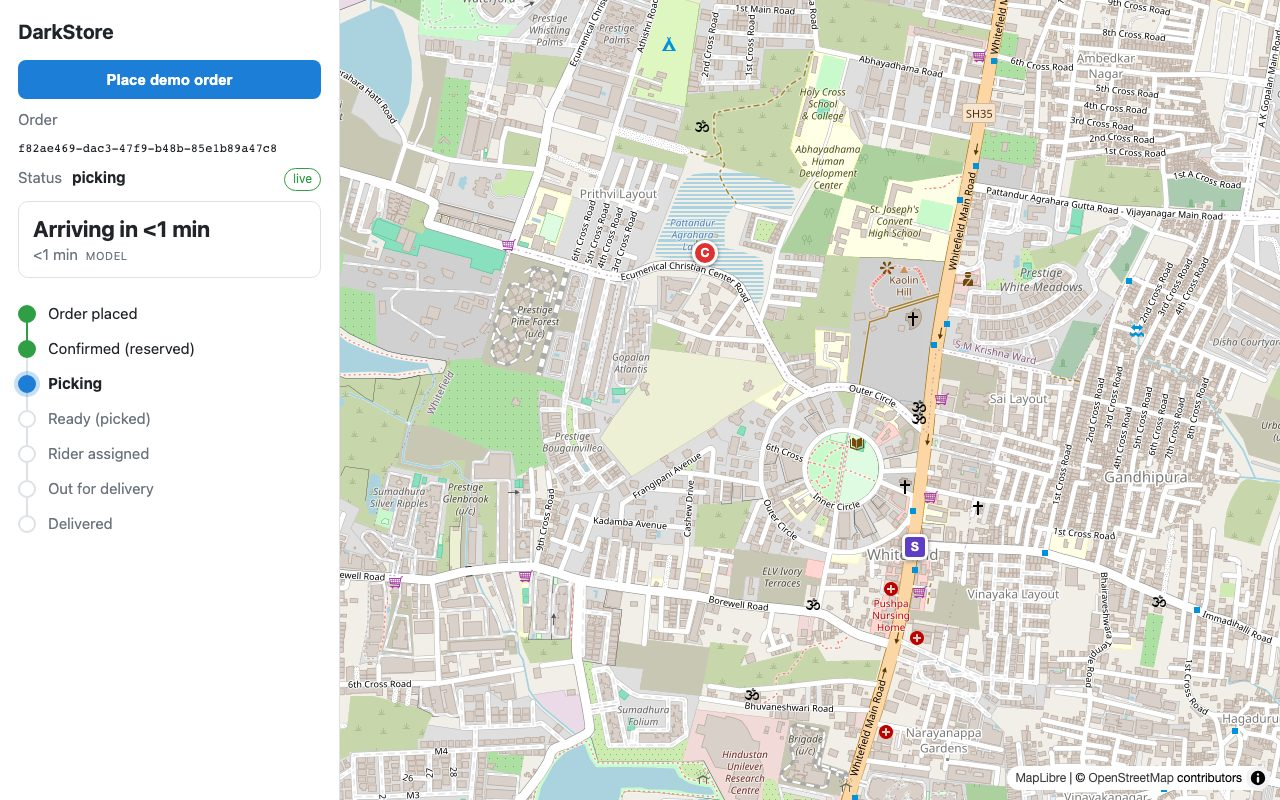
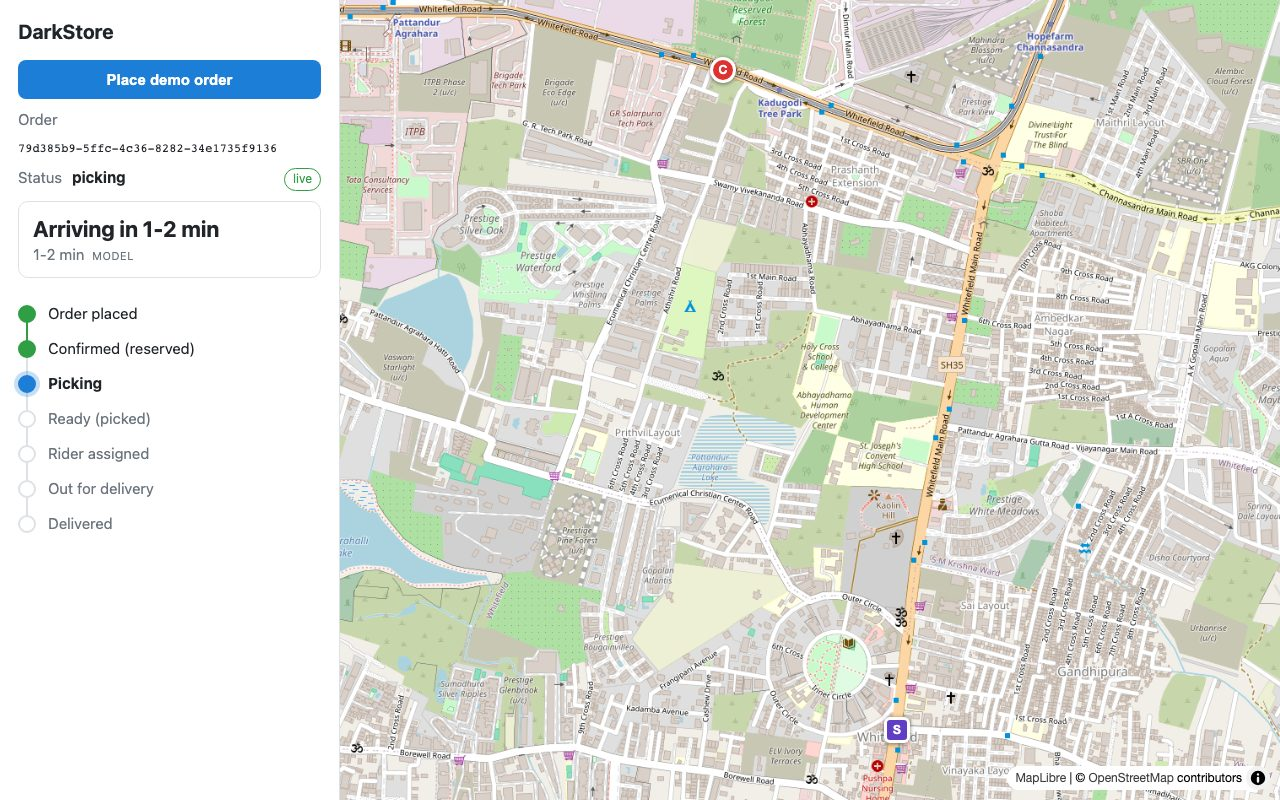
docs: refresh screenshots from a fresh run, update test counts, note the evening-rush headroom

diff --git a/README.md b/README.md
@@ -20,7 +20,7 @@ make e2e     # Playwright          make chaos SCENARIO=kill-picking   make load
 The demo simulator runs on a 30x clock with 1 order per simulated minute at base demand (`SIM_ORDERS_PER_MINUTE`, so 0.5/s before the rush multipliers), starting at 16:00 (`SIM_START_HOUR`). The simulated clock starts when the stack first boots (its epoch is kept in Redis), so run `make demo` right after `make up`; starting it much later begins later in the simulated day. Two runs measured on this machine:
 
 - **Lunch peak** (sim hour ~13, about 1.1 orders/s target): 551 orders delivered in 15 minutes, order-to-delivered p50 103 s and p95 200 s, rider backlog 0-1. City-wide destinations make trips longer than in the load test, which is why these are slower than the load-ramp table.
-- **Evening rush** (19:00-22:00 simulated, 3.0x, about 1.5 orders/s target; it starts 6 minutes after the simulator and lasts about 6): this is over what the 120-rider fleet can deliver. About 0.7 orders/s were delivered through the rush (262 in 6.1 minutes), so the orders waiting for a rider grew to about 250 and drained to 0 about 6 minutes after demand fell. The order pipeline itself stayed healthy: consumer lag was at most 4 in samples taken every 30 s, and the simulator logged 0 failed placements. That queue is what the `FleetStarved` alert and the ops late-orders table exist to show; lower `SIM_ORDERS_PER_MINUTE` to stay under capacity.
+- **Evening rush** (19:00-22:00 simulated, 3.0x, about 1.5 orders/s target; it starts 6 minutes after the simulator and lasts about 6): this is over what the 120-rider fleet can deliver. About 0.7 orders/s were delivered through the rush (262 in 6.1 minutes), so the orders waiting for a rider grew to about 250 and drained to 0 about 6 minutes after demand fell. The order pipeline itself stayed healthy: consumer lag was at most 4 in samples taken every 30 s, and the simulator logged 0 failed placements. That was a fresh start with nothing else running; in a later run with the ops dashboard open in a browser and the Playwright tests running through the same rush, consumer lag reached about 860 and the simulator logged 156 failed placements (518 placed) before things recovered once demand fell, so on a 4 GB Docker VM the evening rush leaves little headroom. The rider queue is what the `FleetStarved` alert and the ops late-orders table exist to show; lower `SIM_ORDERS_PER_MINUTE` to stay under capacity.
 
 The earlier defaults (3 per simulated minute, starting at 18:00) asked for 1.5 orders/s at base and 4.5/s in the evening peak, so orders queued for many minutes (656 waiting after 33 minutes).
 
@@ -36,7 +36,7 @@ Screenshots from the running demo on this laptop (`make up && make demo`). They 
 |---|---|---|
 | ![Order being picked at the dark store](docs/screenshots/customer-1-picking.jpg) | ![Rider on the way, ETA shown](docs/screenshots/customer-2-out-for-delivery.jpg) | ![Order delivered, all steps done](docs/screenshots/customer-3-delivered.jpg) |
 
-**Ops dashboard** (token URL from `make urls`): every rider on the map (green idle, blue assigned, orange cooldown) over the supply-vs-demand H3 cells, the dark stores (S), the order funnel, P95 pick time and the late-orders table. This capture was taken after the evening rush had drained, so most of the fleet is idle.
+**Ops dashboard** (token URL from `make urls`): every rider on the map (green idle, blue assigned, orange cooldown) over the supply-vs-demand H3 cells, the dark stores (S), the order funnel, P95 pick time and the late-orders table. This capture is from a fresh demo run in the early evening (before the rush), with about half the fleet out on deliveries.
 
 ![Ops dashboard with the demo running](docs/screenshots/ops-live.jpg)
 
@@ -83,10 +83,10 @@ Evidence is collected in [docs/verification.md](docs/verification.md) (test outp
 
 | Check | Result |
 |---|---|
-| Unit tests (`make test`) | 140 passed |
-| Integration tests (`make test-int`, real Redpanda/Postgres/Redis) | 84 passed (stack stopped while they run). Details in docs/verification.md |
+| Unit tests (`make test`) | 141 passed |
+| Integration tests (`make test-int`, real Redpanda/Postgres/Redis) | 88 passed (stack stopped while they run). Details in docs/verification.md |
 | Alert rules (`make test-alerts`, promtool) | 14 rules, SUCCESS |
-| Playwright e2e: order to delivered in the browser | 6 passed (41 s) on the final stack |
+| Playwright e2e: order to delivered in the browser, store/customer markers, ops map worker | 6 passed (1.2 min) on the final stack |
 | Chaos: six fault scenarios | **6 of 6 pass** (table below) |
 
 ## Numbers I measured

diff --git a/docs/verification.md b/docs/verification.md
@@ -7,10 +7,10 @@ Nothing is rounded in our favour; failures and re-runs are listed as they happen
 
 | Suite | Command | Result (real output line) |
 |---|---|---|
-| Unit | `make test` | `140 passed, 84 deselected, 1 warning in 20.85s` |
+| Unit | `make test` | `141 passed, 88 deselected, 1 warning in 14.84s` |
 | SLO alert rules | `make test-alerts` (promtool) | `SUCCESS: 14 rules found` / `SUCCESS` |
-| Integration (real Redpanda, Postgres, Redis via testcontainers) | `make test-int` | `84 passed, 140 deselected, 3 warnings in 304.26s` (see note 1) |
-| Playwright e2e | `make e2e` | `6 passed (41.4s)` (see note 2) |
+| Integration (real Redpanda, Postgres, Redis via testcontainers) | `make test-int` | `88 passed, 141 deselected, 3 warnings in 535.36s (0:08:55)` (see note 1) |
+| Playwright e2e | `make e2e` | `6 passed (1.2m)` (see note 2) |
 
 1. **Integration.** Run with the stack stopped (`docker compose down`): an earlier attempt with the full stack up produced 63 fixture timeouts because the 4 GB Docker VM cannot host both, and was discarded. An earlier full run had one intermittent failure, `test_gate_500_concurrent_orders_zero_double_assigned_riders` (one order stuck behind the 30 s / 5 min retry tier under the compressed test timings). The test now sets a longer retry ladder (1s/2s/5s/10s/20s) and the whole suite passed in the run above; I have run it to completion once with that change, not many times, so I would still call it "passed", not "proven not flaky".
 2. **e2e.** An earlier run had one failure right after a stack restart (the ETA service was replaying backlog). The run above is on a settled, freshly rebuilt stack: all six passed.
